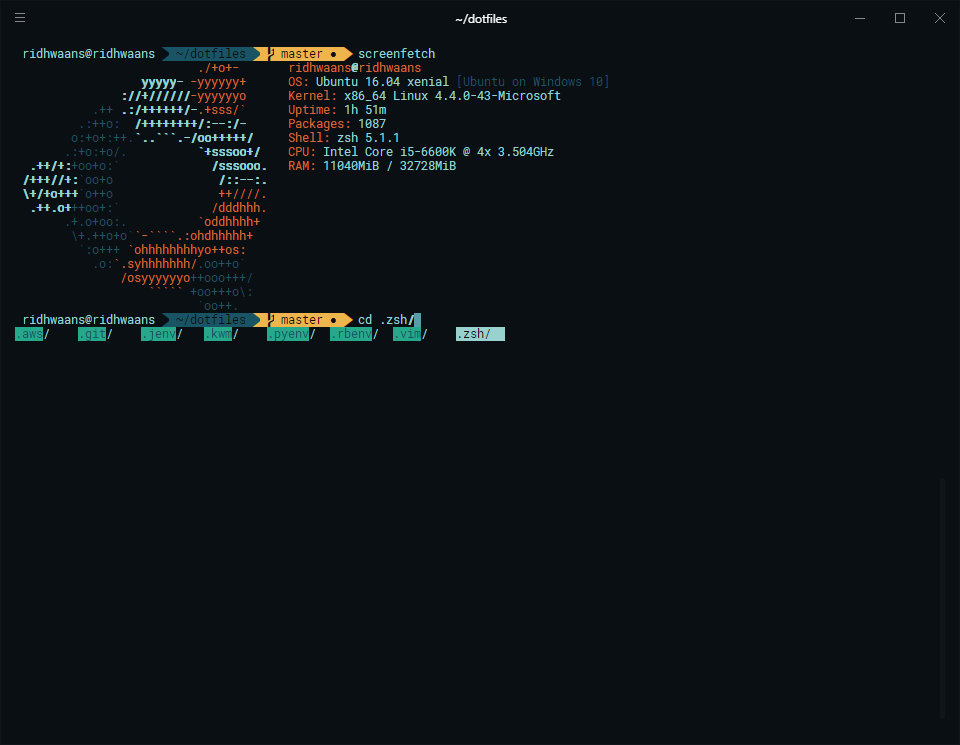
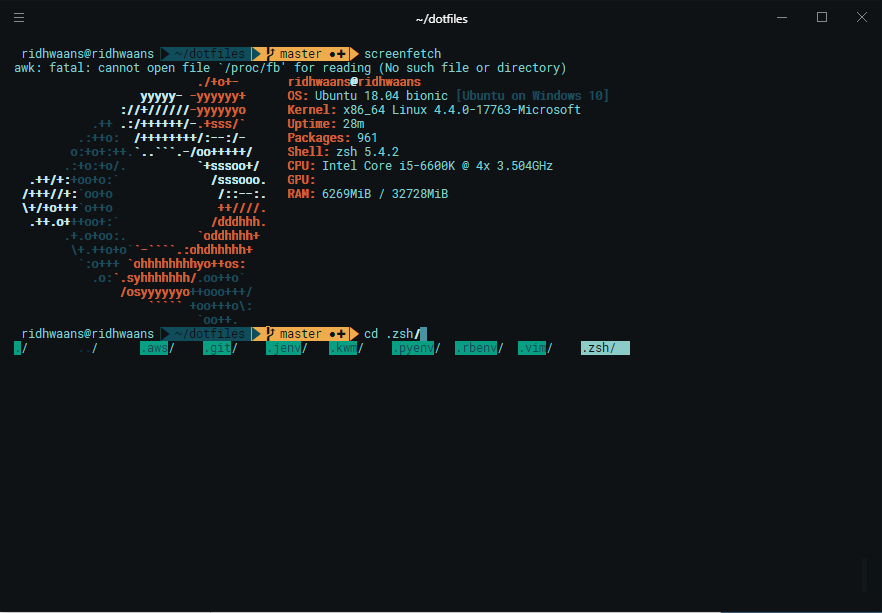
upgrade 18.04 lts

diff --git a/README.md b/README.md
@@ -6,20 +6,22 @@
 
 ## prerequisites
 macOS
-- **GET** High Sierra Update `https://www.apple.com/ca/macos/how-to-upgrade/`
+- **GET** Mojave Update `https://www.apple.com/ca/macos/how-to-upgrade/`
 - **GET** Xcode Command Line Tools `xcode-select --install`
 
 windowsOS
 - **GET** Windows 10 Creators Update `https://support.microsoft.com/en-ca/help/4028685/windows-10-get-the-fall-creators-update`
 - **GET** Windows Subsystem for Linux `https://docs.microsoft.com/en-us/windows/wsl/install-win10`
-- **GET** ubuntuOS `Ubuntu 17.10 (Artful Aardvark)`
+- **GET** `Ubuntu 18.04 (Bionic Beaver)` from the Microsoft Store
+- To remove legacy linux distributions, see `https://docs.microsoft.com/en-us/windows/wsl/wsl-config#managing-multiple-linux-distributions`
 
 ## installation
+[Adding a new SSH key to your GitHub account](https://help.github.com/en/articles/adding-a-new-ssh-key-to-your-github-account)
 git
 ```sh
 git clone git@github.com:ridhwaans/dotfiles.git ~/dotfiles
 cd ~/dotfiles
-sh setup.sh
+./setup.sh
 ```
 or, curl
 ```sh
